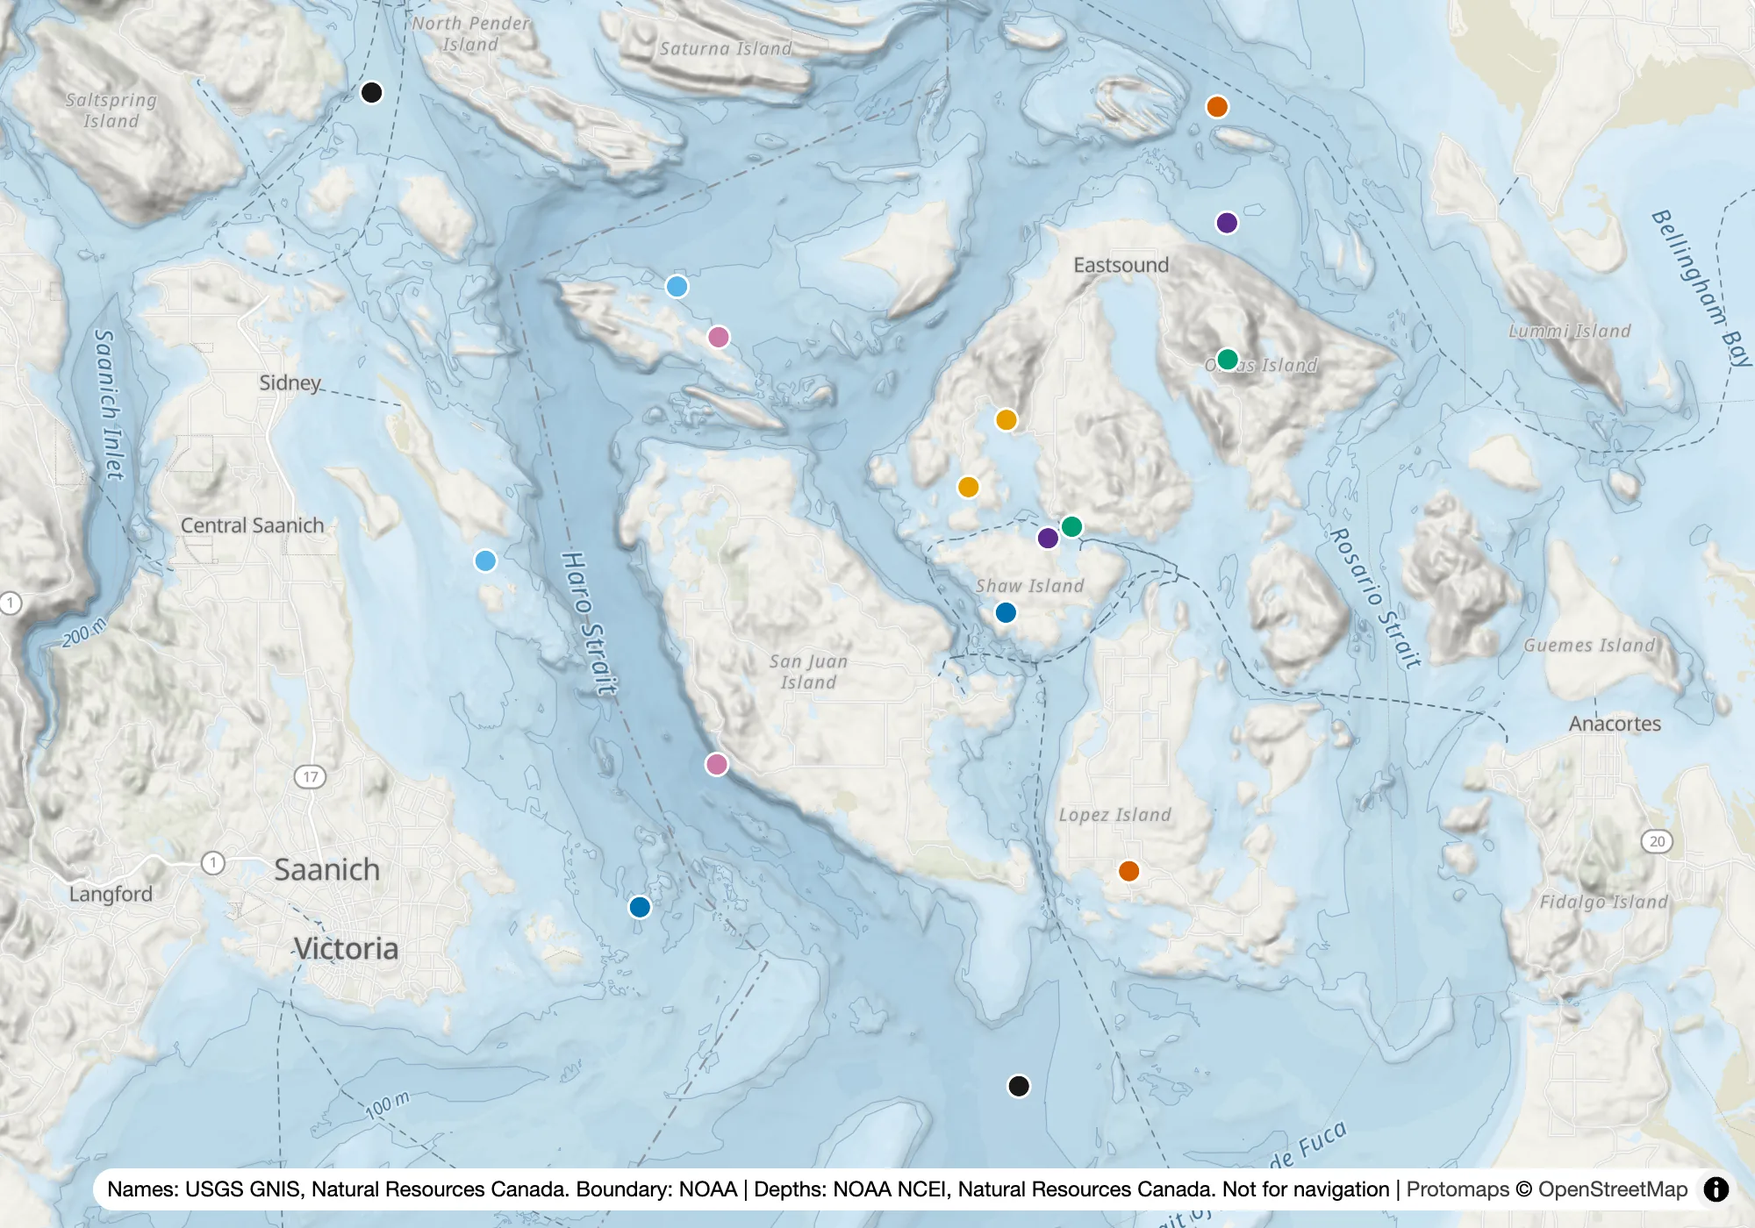
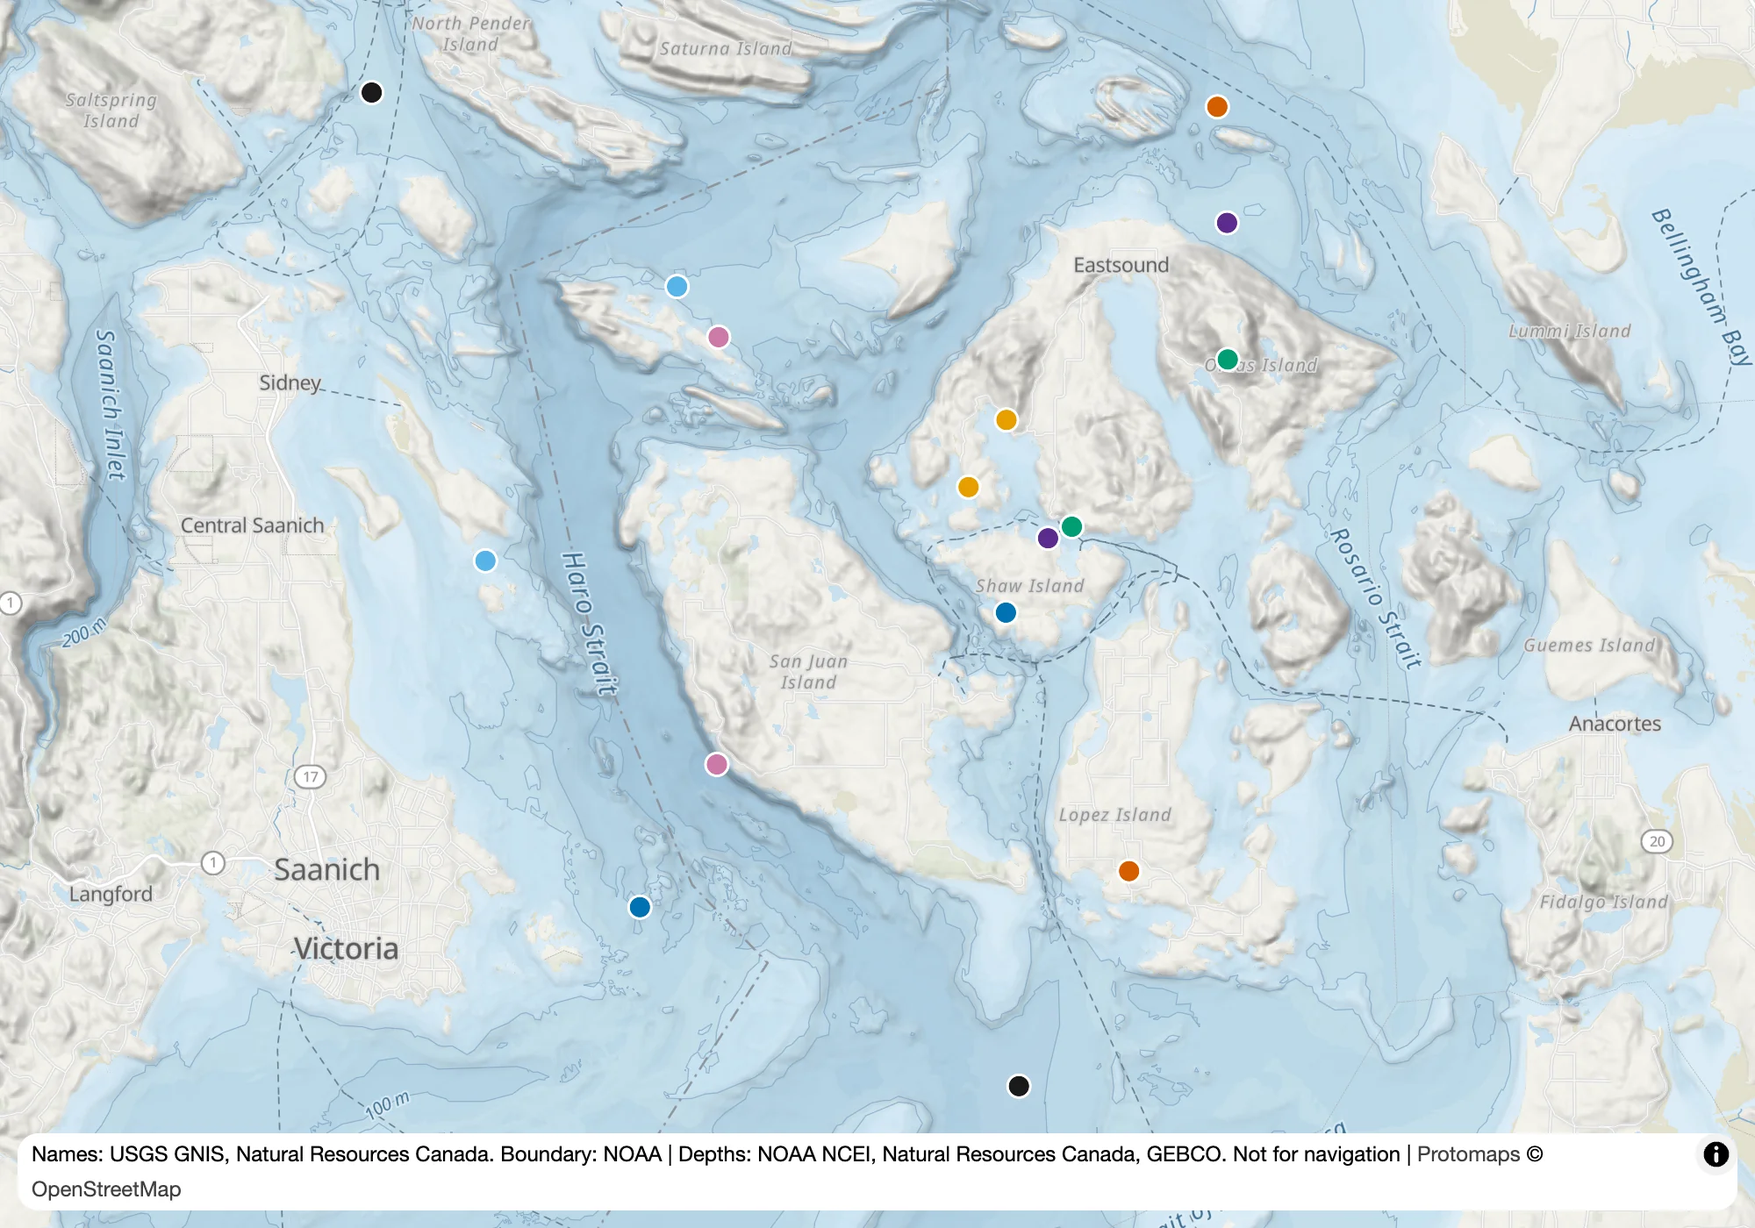
The README is about using the basemap, and its pictures are drawn by the build
The README now says what the basemap is, how to use a published version from MapLibre, what it shows and what it is built from. Building, drawing the pictures and publishing move to CONTRIBUTING.md.

The pictures were screenshots taken by hand, already out of date. make pictures now draws them from a region's build: scripts/pictures.ts opens the comparison page in a new picture mode, with one map and no controls, in headless Chromium, and writes each view to docs/images/ as WebP. The README gains a picture of the whole range and one of the Skagit's rivers.

diff --git a/scripts/pictures.ts b/scripts/pictures.ts
@@ -1,0 +1,78 @@
+// Draws the README's pictures from a local build, so they show the map as it is built
+// rather than as it looked when someone last took a screenshot:
+//   make pictures REGION=coast
+// Each view is drawn by the comparison page in its picture mode, in headless Chromium,
+// and written to docs/images/ as WebP, which keeps the text sharp at a third the size of
+// a squeezed PNG, so redrawing them adds little to the repository's history. A view outside
+// the region is skipped, and its old picture kept.
+
+import { execFileSync } from 'node:child_process';
+import { existsSync } from 'node:fs';
+import { chromium } from 'playwright';
+import { createServer } from 'vite';
+
+const region = process.argv[2] ?? 'window';
+// West, south, east, north; as in the Makefile.
+const BOUNDS: Record<string, [number, number, number, number]> = {
+  window: [-124.0, 48.0, -122.2, 49.2],
+  coast: [-134.0, 36.4, -121.7, 54.8],
+};
+
+interface View {
+  file: string;
+  /** `#zoom/lat/lon`, as the comparison page writes it. */
+  at: string;
+  /** In CSS pixels; the picture is drawn at twice that, for high-density screens. */
+  size: [number, number];
+  sightings?: boolean;
+  /** The area the view shows, west, south, east, north, which the region must cover. */
+  needs: [number, number, number, number];
+}
+
+const VIEWS: View[] = [
+  { file: 'overview.webp', at: '9.4/48.56/-123.05', size: [1000, 700], sightings: true, needs: [-123.6, 48.3, -122.5, 48.8] },
+  { file: 'zoom14.webp', at: '14/48.5157/-123.145', size: [1000, 700], needs: [-123.17, 48.5, -123.12, 48.53] },
+  { file: 'rivers.webp', at: '10/48.40/-122.28', size: [1000, 700], needs: [-122.63, 48.25, -121.93, 48.55] },
+  // The whole range, which at z5.15 fills the picture.
+  { file: 'coast.webp', at: '5.15/46.4/-127.85', size: [620, 1340], needs: [-134.0, 36.4, -121.7, 54.8] },
+];
+
+const bounds = BOUNDS[region];
+if (!bounds || !existsSync(`build/${region}/protomaps.pmtiles`)) {
+  console.error(`no build for ${region}; run make REGION=${region} first`);
+  process.exit(1);
+}
+const covers = ([w, s, e, n]: View['needs']) => w >= bounds[0] && s >= bounds[1] && e <= bounds[2] && n <= bounds[3];
+
+const server = await createServer({ root: 'viewer', configFile: 'viewer/vite.config.ts', server: { port: 5180, strictPort: false }, logLevel: 'warn' });
+await server.listen();
+const origin = server.resolvedUrls!.local[0];
+const browser = await chromium.launch({ args: ['--use-angle=swiftshader', '--enable-unsafe-swiftshader', '--ignore-gpu-blocklist'] });
+try {
+  for (const view of VIEWS) {
+    if (!covers(view.needs)) {
+      console.log(`${view.file}: outside ${region}, kept as it was`);
+      continue;
+    }
+    const page = await browser.newPage({ viewport: { width: view.size[0], height: view.size[1] }, deviceScaleFactor: 2 });
+    const query = new URLSearchParams({ base: `/${region}/`, picture: '', sightings: view.sightings ? 'on' : 'off' });
+    await page.goto(`${origin}?${query}#${view.at}`);
+    // Waits until every tile in view is drawn: `idle` fires once nothing is loading or
+    // fading, and a repaint makes sure it fires even if the map is idle already.
+    await page.waitForFunction(() => 'maps' in window, null, { timeout: 30_000 });
+    await page.evaluate(() => new Promise<void>((done) => {
+      const map = (window as unknown as { maps: { left: import('maplibre-gl').Map } }).maps.left;
+      map.once('idle', () => done());
+      map.triggerRepaint();
+    }));
+    const out = `docs/images/${view.file}`;
+    await page.screenshot({ path: `${out}.raw.png` });
+    await page.close();
+    execFileSync('cwebp', ['-quiet', '-q', '85', '-m', '6', `${out}.raw.png`, '-o', out]);
+    execFileSync('rm', [`${out}.raw.png`]);
+    console.log(`${view.file}: drawn`);
+  }
+} finally {
+  await browser.close();
+  await server.close();
+}

diff --git a/viewer/main.ts b/viewer/main.ts
@@ -1,6 +1,8 @@
 // Two maps side by side, moving together, each drawing one version of the basemap.
 // The URL holds the view (`#zoom/lat/lon`) and the choices (`?left=ours&right=esri`),
-// so a view can be shared or screenshotted.
+// so a view can be shared or screenshotted. `?picture` shows the left map alone, with
+// no controls, and `?sightings=off` hides the stand-in sightings: the README's pictures
+// are drawn that way (scripts/pictures.ts).
 
 import { addProtocol, Map, setWorkerUrl, type StyleSpecification } from 'maplibre-gl';
 import maplibreWorker from 'maplibre-gl/dist/maplibre-gl-worker.mjs?url';
@@ -103,6 +105,9 @@ function variantParam(key: string, fallback: Variant): Variant {
   const value = params.get(key);
   return value !== null && value in VARIANTS ? (value as Variant) : fallback;
 }
+
+if (params.has('picture')) document.body.classList.add('picture');
+if (params.get('sightings') === 'off') (document.getElementById('sightings') as HTMLInputElement).checked = false;
 
 const left = pane('left', variantParam('left', 'ours'), true);
 const right = pane('right', variantParam('right', 'esri'), false);

diff --git a/viewer/index.html b/viewer/index.html
@@ -12,6 +12,9 @@
     .pane { position: relative; min-height: 0; }
     .pane select { position: absolute; z-index: 2; top: 8px; left: 8px; font-size: 13px; }
     #left, #right { position: absolute; inset: 0; }
+    body.picture { grid-template-rows: 1fr; }
+    body.picture header, body.picture select, body.picture .pane:last-child { display: none; }
+    body.picture main { grid-template-columns: 1fr; }
   </style>
 </head>
 <body>

diff --git a/README.md b/README.md
@@ -2,24 +2,63 @@
 
 A basemap of the Northeast Pacific coast, from Monterey Bay to Haida Gwaii, built from open data for [SalishSea.io](https://salishsea.io) and [Orcasound](https://live.orcasound.net). It keeps showing depth and shoreline at the zooms where Esri's ocean tiles go blank, and it is drawn so that the coloured dots of whale sightings stay the most visible thing on the map.
 
-**Status: first build, over a test window around Haro Strait (124.0–122.2°W, 48.0–49.2°N).** Nothing serves it yet.
+<img src="docs/images/coast.webp" width="310" align="right" alt="The whole range at MapLibre zoom 5: the deep ocean in darker blues with its seamounts and fracture zones shaded, the continental shelf paler, and the land pale grey from Prince Rupert to Salinas.">
 
-![The San Juan Islands and Haro Strait at MapLibre zoom 9.4: depth tinted darker with depth, the seafloor and land lightly shaded, and coloured dots over the water.](docs/images/overview.webp)
+It is published at `tiles.salishsea.io` as a [MapLibre](https://maplibre.org) style and the vector tiles it draws from. The newest version is **2026.10.1**:
 
-*The test window at MapLibre zoom 9.4. The coloured dots are stand-ins for whale sightings, in SalishSea.io's colours.*
+- Style: https://tiles.salishsea.io/2026.10.1/style.json
+- A page for trying it out beside Esri's map: https://tiles.salishsea.io/2026.10.1/viewer/index.html
 
-![The shore at Lime Kiln Point State Park at MapLibre zoom 14, with isobaths labelled from 5 m to 300 m running parallel to the shore.](docs/images/zoom14.png)
+The pictures in this README are drawn from the build by `make pictures` ([CONTRIBUTING](CONTRIBUTING.md#pictures)), so they show the map as it is.
 
-*Lime Kiln Point at MapLibre zoom 14, where Esri's ocean tiles show "Map data not yet available". The relief has faded out by this zoom, and the isobaths and depth bands carry the seafloor.*
+## Using it
 
-## What it publishes
+Point a MapLibre map at a version's style. The style reads its tiles from [PMTiles](https://docs.protomaps.com/pmtiles/) archives, so register the `pmtiles` protocol first:
 
-From one style, two forms of the same map:
+```js
+import maplibregl from 'maplibre-gl';
+import { Protocol } from 'pmtiles';
 
-- **Vector tiles and a MapLibre style**, for interactive maps. Vectors stay sharp at any zoom and can be restyled without a rebuild.
-- **Image tiles rendered from that style** (256-pixel), for anything that stitches images together rather than drawing a map, such as SalishSea.io's preview cards and the small maps on its profile pages.
+maplibregl.addProtocol('pmtiles', new Protocol().tile);
+const map = new maplibregl.Map({
+  container: 'map',
+  style: 'https://tiles.salishsea.io/2026.10.1/style.json',
+  center: [-123.1, 48.5], zoom: 9,
+  minZoom: 5, maxBounds: [[-134.0, 36.4], [-121.7, 54.8]],
+});
+```
 
-They will be served from `tiles.salishsea.io`, each build under its own versioned path, so that a rebuild never changes what a published page shows.
+- **Pin a version.** A published version never changes, so a page that names one always draws the same map, and every file can be cached for a year. A new version gets a new number, in CalVer: `2026.10.1`, then `2026.10.2`, then `2026.11.1`. The versions are this repository's [tags](https://github.com/salish-sea/basemap/tags), each on the commit that built it ([decision 007](decisions/007-published-builds-are-dated-and-never-change.md)).
+- **Any site may use it.** Every response allows any origin.
+- **Keep to the range.** Depths and names start at zoom 5, and nothing is drawn outside 134.0–121.7°W, 36.4–54.8°N, so the `minZoom` and `maxBounds` above keep a map where the basemap has something to show.
+- **Draw your data on top.** Layers you add after the style loads go above everything in it, labels included, which is where sightings belong.
+- **Turn the relief off on a slow device:** `map.setLayoutProperty('relief', 'visibility', 'none')`. The relief is the light and shadow of the seafloor and land, shaded by the browser.
+- **Keep the attribution.** Each source carries its credit, which MapLibre's attribution control shows, including that the map is not for navigation. Archives derived from OpenStreetMap are under the ODbL.
+
+The labels' fonts and icons are still fetched from Protomaps' site on GitHub Pages; serving them from tiles.salishsea.io is open work. Image tiles drawn from the same style, for things that stitch pictures together rather than draw a map, such as SalishSea.io's preview cards, are planned but not built ([SalishSea.io decision 074](https://github.com/salish-sea/salishsea-io/blob/main/docs/decisions/074-the-basemap-is-its-own-project-and-the-cards-draw-on-it.md)).
+
+<br clear="right">
+
+## What it shows
+
+![The San Juan Islands and Haro Strait at MapLibre zoom 9.4: depth tinted darker with depth, the seafloor and land lightly shaded, ferry routes dashed, and coloured dots over the water.](docs/images/overview.webp)
+
+*The San Juan Islands at zoom 9.4. The coloured dots stand in for whale sightings, in SalishSea.io's colours.*
+
+- **Depth** is tinted in bands, darker where deeper, with labelled isobaths; the deepest band, from 2000 m, runs to the seafloor's lowest point.
+- **Ground that dries at low tide**, such as the mud flats of Boundary Bay, is khaki ([004](decisions/004-ground-that-dries-at-low-tide-is-drawn.md)).
+- **Relief** shades the seafloor and the land lightly, and fades out by zoom 13, before it would blur ([002](decisions/002-the-relief-is-shaded-by-maplibre.md)).
+- **Land** is one flat colour, so that sightings stand out, except parks in a faint green: many are where people watch from shore. Rivers and streams are blue ([003](decisions/003-land-is-flat-except-parks.md)).
+- **Ferry routes** are dashed, from zoom 9, because many casual sightings are made from ferries ([005](decisions/005-ferry-routes-are-drawn-from-zoom-9.md)).
+- **Bays, straits, channels and points** are named from the US and Canadian government gazetteers, and the boundary at sea is drawn ([006](decisions/006-marine-names-and-the-boundary-come-from-government-gazetteers.md)).
+
+![The shore at Lime Kiln Point State Park at MapLibre zoom 14, with isobaths labelled from 5 m to 300 m running parallel to the shore.](docs/images/zoom14.webp)
+
+*Lime Kiln Point at zoom 14, where Esri's ocean tiles show "Map data not yet available". The relief has faded out, and the isobaths and depth bands carry the seafloor.*
+
+![The Skagit valley at MapLibre zoom 10: the Skagit River winding in blue past Sedro-Woolley, Burlington and Mount Vernon to its delta, Interstate 5 in white beside it.](docs/images/rivers.webp)
+
+*The Skagit at zoom 10, where a salmon river reads as plainly as the interstate beside it.*
 
 ## What it is built from
 
@@ -36,39 +75,13 @@ They will be served from `tiles.salishsea.io`, each build under its own versione
 
 Canada's grid is preferred because NOAA's shows straight seams where its survey patches meet. The two measure height from different levels, so Canada's depths read 1–2 m shallower; each is kept as published, except within 4 km of a grid's edge, where it is blended with the grid beneath ([001](decisions/001-canadas-depth-grid-comes-first.md), [009](decisions/009-gebco-fills-the-deep-ocean.md)).
 
-Why one 30 m grid, and why not the Canadian Hydrographic Service's own depths, is in SalishSea.io's decision [073](https://github.com/salish-sea/salishsea-io/blob/main/docs/decisions/073-the-basemap-depths-are-30-m-lightly-shaded.md). Why the basemap is its own project is in [074](https://github.com/salish-sea/salishsea-io/blob/main/docs/decisions/074-the-basemap-is-its-own-project-and-the-cards-draw-on-it.md). Decisions made since are recorded in [decisions/](decisions/).
-
 Anything derived from OpenStreetMap is kept in archives of its own, so that the ODbL's share-alike terms don't reach the public-domain and Canadian data. The map is not for navigation.
 
-## How depth is drawn
+Why one 30 m grid, and why not the Canadian Hydrographic Service's own depths, is in SalishSea.io's decision [073](https://github.com/salish-sea/salishsea-io/blob/main/docs/decisions/073-the-basemap-depths-are-30-m-lightly-shaded.md). Why the basemap is its own project is in [074](https://github.com/salish-sea/salishsea-io/blob/main/docs/decisions/074-the-basemap-is-its-own-project-and-the-cards-draw-on-it.md). Decisions made since are in [decisions/](decisions/).
 
-Depth is drawn in three ways, all cut from the same elevation grid:
+## Contributing
 
-- **Depth bands and isobaths** are vector polygons and lines, darker where deeper; the deepest band, from 2000 m, runs down to the grid's lowest point. Isobaths carry their depth as a label.
-- **Ground that dries at low tide**, such as the mud flats of Boundary Bay, is a khaki polygon cut from the same grid and drawn under the land, so it shows only below OpenStreetMap's high-water coastline ([004](decisions/004-ground-that-dries-at-low-tide-is-drawn.md)).
-- **Relief**, the light and shadow of the seafloor and land, sits above the land and the bands but under roads and labels, and fades out before it would blur. MapLibre shades it with a `hillshade` layer, from elevation tiles in Mapzen's Terrarium encoding (`elevation.pmtiles`, written by [scripts/elevation_tiles.py](scripts/elevation_tiles.py)), so it can be restyled without a rebuild. Shading baked into image tiles was tried too. It was a little crisper, but its archive was five times the size and every change of style needed a rebuild ([002](decisions/002-the-relief-is-shaded-by-maplibre.md)).
-
-## Building
-
-The style is [style/style.ts](style/style.ts), built on Protomaps' light flavour. The build needs GDAL, tippecanoe, the `pmtiles` command, `bsdtar` (part of macOS; `libarchive-tools` on Debian), `uv` and Node (version in [.nvmrc](.nvmrc)). Source grids are downloaded once into `cache/`, which is not committed.
-
-```sh
-pnpm install
-make             # every archive for the test window, in build/window/ (make REGION=coast for the whole range)
-make serve       # a page that compares versions of our map, and Esri's, side by side
-```
-
-The comparison page keeps its view and choices in the URL, so a view can be shared or screenshotted. The pictures above are, with the controls hidden, `#9.4/48.56/-123.05` and `#14/48.5157/-123.145`.
-
-## Publishing
-
-[infra/](infra/) holds the CDK stack for tiles.salishsea.io, in Orcasound's AWS account. [scripts/publish.sh](scripts/publish.sh) uploads a region's build as a version, numbered in CalVer as the animals register's releases are (`2026.10.1`, then `2026.10.2`), and tags the commit it was built from. Each archive is stored once, named for its contents, and shared by every version that uses it; a published version is never changed ([007](decisions/007-published-builds-are-dated-and-never-change.md)).
-
-```sh
-(cd infra && pnpm install && pnpm cdk deploy --all --profile orcasound)   # once, and after changing infra/
-scripts/publish.sh 2026.10.1
-fly/run.sh coast 2026.10.2      # the whole range, built and published on a Fly machine (decision 008)
-```
+How to build the map, draw this README's pictures and publish a version is in [CONTRIBUTING.md](CONTRIBUTING.md).
 
 ## Licence
 

diff --git a/CONTRIBUTING.md b/CONTRIBUTING.md
@@ -1,0 +1,46 @@
+# Contributing
+
+How the basemap is built, pictured and published. What it is and how to use it is in the [README](README.md). Decisions about what it is built from, how it is drawn and how it is served are recorded in [decisions/](decisions/), each with what was rejected; when a decision is made, the record is written before moving on.
+
+## Building
+
+The style is [style/style.ts](style/style.ts), built on Protomaps' light flavour; the build is the [Makefile](Makefile). It needs GDAL, tippecanoe, the `pmtiles` command, `bsdtar` (part of macOS; `libarchive-tools` on Debian), `uv` and Node (version in [.nvmrc](.nvmrc)). Source grids are downloaded once into `cache/`, which is not committed.
+
+```sh
+pnpm install
+make             # every archive for a test window around Haro Strait, in build/window/
+make serve       # a page that compares our map with Esri's, side by side
+```
+
+The whole range, `make REGION=coast`, needs about 12 GB of source grids, 30 GB of working files and 16 GB of memory, so it is built on a Fly machine ([decision 008](decisions/008-full-builds-run-on-a-fly-machine.md)); see Publishing.
+
+The comparison page keeps its view and choices in the URL, so a view can be shared: `#zoom/lat/lon` for the view, `?left=ours&right=esri` for the two maps, `?strength=0.25` for the relief, and `?base=/coast/` to draw from `build/coast/` rather than `build/window/`.
+
+## Pictures
+
+The README's pictures are drawn from a build rather than taken by hand, so that they show the map as it is:
+
+```sh
+make pictures REGION=coast   # or the window, which draws the views inside it and keeps the rest
+```
+
+[scripts/pictures.ts](scripts/pictures.ts) holds the list of views. It draws each in the comparison page with `?picture`, which shows one map without controls, in headless Chromium, and writes it to `docs/images/` as WebP. It needs `cwebp`. Redraw the pictures after a change to how the map looks, and commit them with it.
+
+## Publishing
+
+[infra/](infra/) holds the CDK stack for tiles.salishsea.io, in Orcasound's AWS account: a private bucket behind CloudFront in us-west-2, and a `basemap-publisher` user that can add files but never change or delete them.
+
+```sh
+(cd infra && pnpm install && pnpm cdk deploy --all --profile orcasound)   # once, and after changing infra/
+fly/run.sh coast 2026.10.2      # build the whole range on a Fly machine and publish it
+scripts/publish.sh 2026.10.2    # publish this machine's build of the window
+```
+
+What a publish does ([decision 007](decisions/007-published-builds-are-dated-and-never-change.md)):
+
+- **It numbers the version in CalVer**, as the [animals register](https://github.com/salish-sea/animals#versioning) numbers its releases: the year, the month, and a count within the month.
+- **It tags the commit** with the version and pushes the tag first ([scripts/release-tag.sh](scripts/release-tag.sh)). The checkout must be clean and on origin's `main`. A tag never moves: if a build fails and the fix is a new commit, that number is skipped.
+- **It stores each archive once,** as `archives/<archive>-<hash>.pmtiles`, named for its contents, and uploads only the ones not already there. A version that changes only the style uploads about 2 MB.
+- **It uploads `style.json` last,** as the sign that the version is complete, and refuses a version that already has one. A publish that failed partway is finished by running it again from the same commit.
+
+`fly/run.sh` builds the image from this checkout and runs it on an 8-CPU machine with the app's volume, which keeps the source grids between builds; the machine is removed when the build ends. Follow it with `fly logs -a salishsea-basemap-build`. The publisher's key is a secret of the Fly app, created with `aws iam create-access-key --user-name basemap-publisher` and set by hand.
